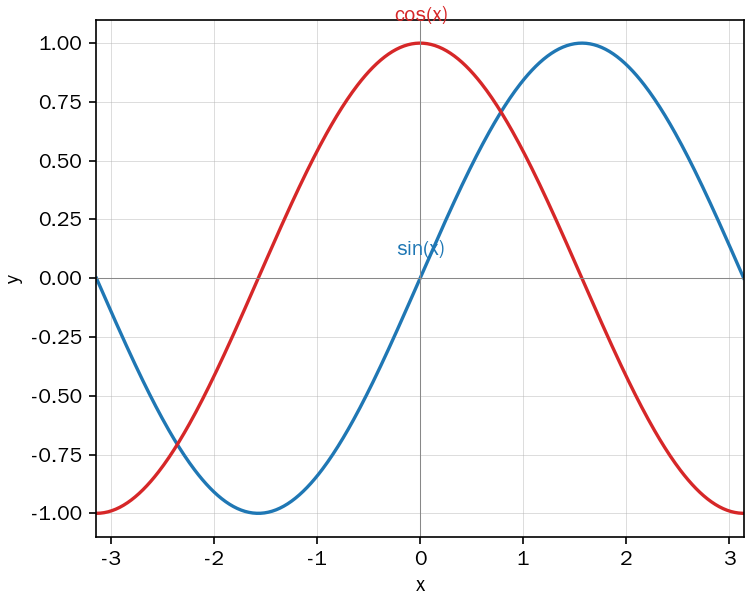
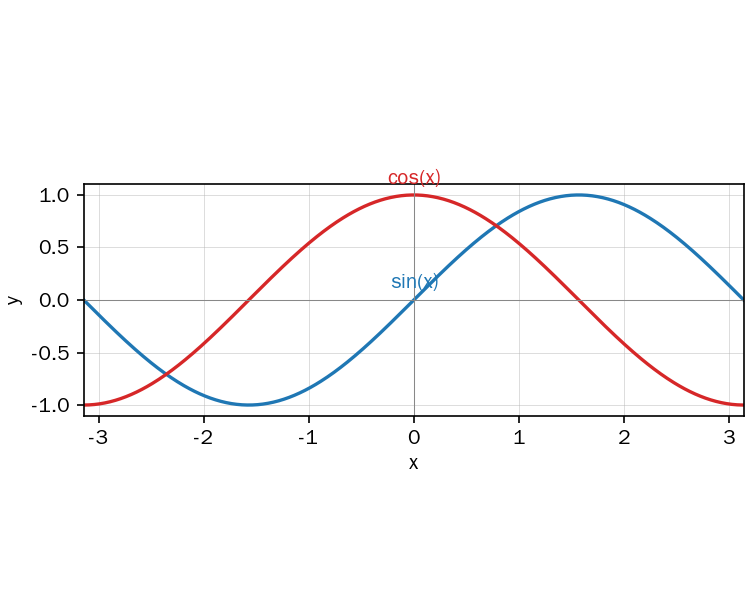
feat(plotter): 默认 x/y 轴单位长度一致 (set_aspect equal)
- 隐函数图 / 显隐混合图：强制 set_aspect('equal')，保证单位圆是正圆
- 纯显函数图：默认 equal；但当 y 跨度 > 3 倍 x 跨度（如 tan）时
  退回 auto，避免 x 轴被压扁到无法辨认
- 用 matplotlib axes bbox 像素级验证：x/y 单位像素严格相等 (1.0000)

diff --git a/mathtext2doc/plotter.py b/mathtext2doc/plotter.py
@@ -451,13 +451,26 @@ def render_plot(plot: Plot, out_path: str, dpi: int = 150) -> str:
 
     # 坐标范围
     if ymin is None or ymax is None:
+        # 纯显函数图：y 范围由 autoscale 决定
         ax.relim()
         ax.autoscale_view()
-        # 显函数图：x 范围用 item 指定的，y 范围由 autoscale 决定
         ax.set_xlim(xmin, xmax)
+        # 取 autoscale 后的实际 y 范围，用于判断是否启用 equal
+        y_lo, y_hi = ax.get_ylim()
+        x_span = xmax - xmin
+        y_span = y_hi - y_lo
+        # 默认 x/y 单位长度一致；但当 y 跨度远大于 x（如 tan、exp 等陡峭函数）
+        # 1:1 会让 x 轴被压扁到无法辨认，此时退回 'auto' 保证可读性。
+        # 阈值：y 跨度超过 x 跨度 3 倍，认为不适合 equal。
+        if x_span > 0 and y_span / x_span <= 3.0:
+            ax.set_aspect("equal", adjustable="box")
+        # 否则保持 auto（matplotlib 默认）
     else:
+        # 有隐函数图（或显隐混合）：用户显式指定了 x、y 范围，
+        # 默认 x/y 单位长度一致（几何意义正确，单位圆才是圆）。
         ax.set_xlim(xmin, xmax)
         ax.set_ylim(ymin, ymax)
+        ax.set_aspect("equal", adjustable="box")
 
     ax.axhline(0, color="#888", linewidth=0.5)
     ax.axvline(0, color="#888", linewidth=0.5)
